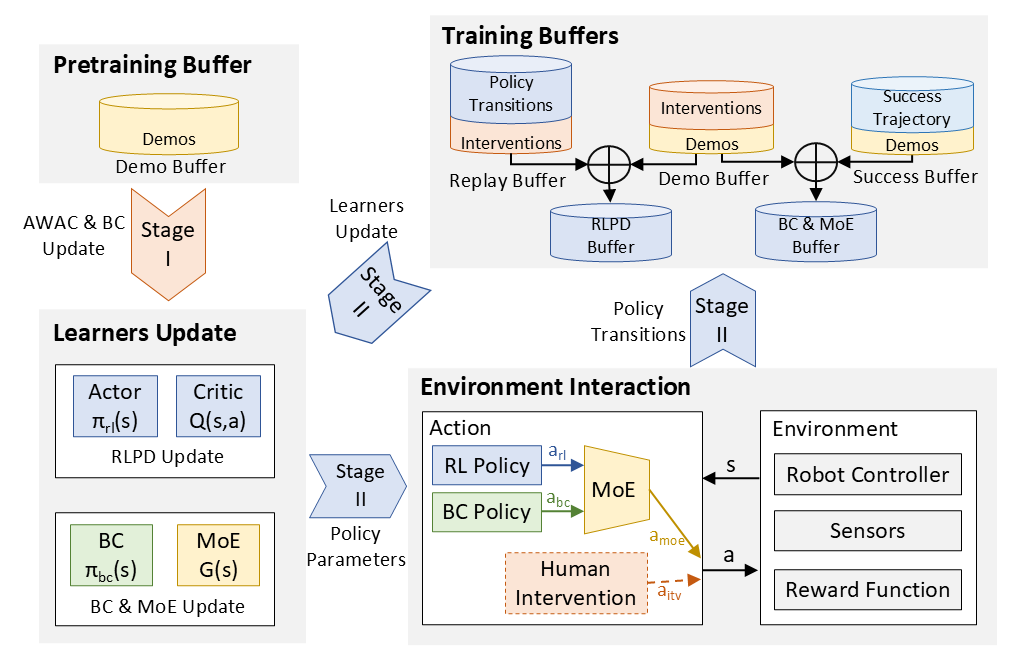
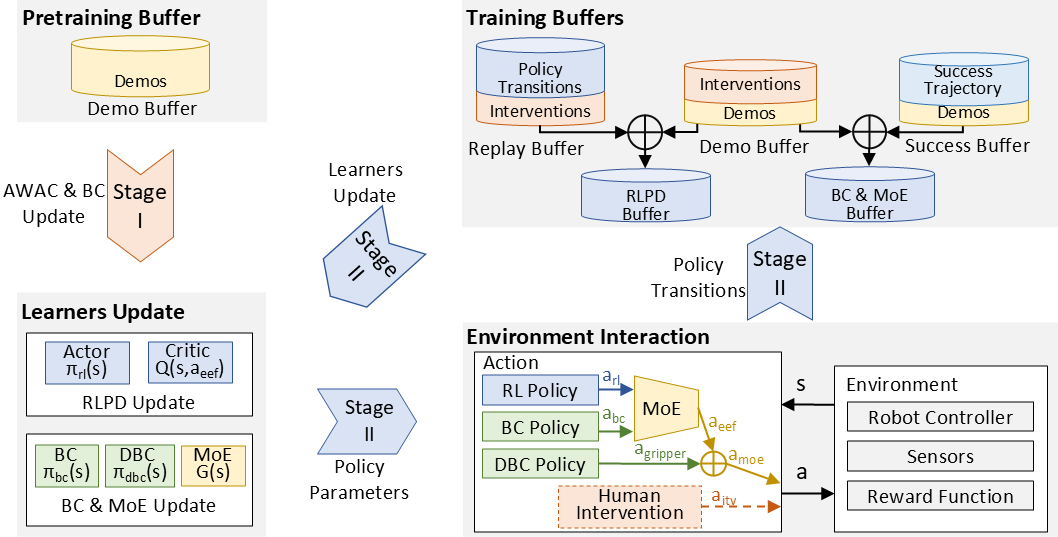
modify mori paper

diff --git a/_posts/2026-02-02-MoRI.md b/_posts/2026-02-02-MoRI.md
@@ -7,11 +7,11 @@ tags: [MoE, Reinforcement Learning, Imitation Learning, Manipulation, Embodied A
 ---
 
 ## Introduction
-In embodied robotic manipulation, imitation learning (IL) and reinforcement learning (RL) are mainstream policy acquisition paradigms with distinct strengths: IL enables sample-efficient policy learning from human demonstrations without manual programming, while RL supports autonomous exploration in dynamic environments to outperform original demonstrations. Nevertheless, IL and RL have inherent limitations and lack complementary integration: IL fails to generalize due to distribution mismatch, error accumulation, expert data reliance, and poor adaptability to contact-rich fine-grained tasks, while RL faces inefficient exploration and high trial-and-error costs, only partially mitigated by IL based pre-training. To address these challenges, we propose a bionic mix-of-experts (MoE) framework that dynamically assigns high-determinism coarse motions to IL and high-uncertainty contact-rich fine manipulations to RL. In the offline phase, our method independently trains the IL and RL modules to extract policies from limited demonstrations and stabilize value estimation; in the online phase, we continue their training and leverage the MoE algorithm for efficient policy selection, thus reducing manual intervention and accelerating task convergence. We evaluated our method on six complex manipulation tasks in simulation and real-world environments; within 2-4 hours of online fine-tuning, it achieved a 98\% average success rate, outperforming prior supervised and reinforcement learning methods, and reduced convergence time and manual intervention by 50\% each while doubling the proportion of successful training data. This work highlights the potential of integrating reinforcement learning and imitation learning via MoE to improve performance in robotic applications.
+In embodied robotic manipulation, imitation learning (IL) and reinforcement learning (RL) are mainstream policy acquisition paradigms with distinct advantages: IL enables sample-efficient policy learning from human demonstrations without manual programming, while RL supports autonomous exploration in dynamic environments to outperform original demonstrations. However, IL and RL have inherent limitations and lack complementary integration: IL fails to generalize due to distribution mismatch, error accumulation, over-reliance on expert data, and poor adaptability to contact-rich fine-grained tasks, while RL faces inefficient exploration and high trial-and-error costs, partially alleviated by IL-based pre-training. To address these challenges, we propose a bionic mix-of-experts (MoE) framework that dynamically allocates high-determinism coarse motions to IL and high-uncertainty contact-rich fine manipulations to RL. In the offline phase, we independently train IL and RL modules to extract policies from limited demonstrations and stabilize value estimation; in the online phase, we continue their training and use the MoE algorithm for efficient policy selection, reducing manual intervention and accelerating task convergence. We evaluated our method on four complex real-world manipulation tasks; within 2–4 hours of online fine-tuning, it achieved a 96\% average success rate, outperforming existing supervised and reinforcement learning methods, reduced convergence time and manual intervention by 50\%, and doubled the proportion of successful training data. This work highlights the potential of integrating RL and IL via MoE to enhance robotic application performance. 
 
 
 ## Experiment
-### Real
+### Real env video(youtube)
 <html>
 <body>
 <div style="text-align: center">
@@ -20,7 +20,7 @@ In embodied robotic manipulation, imitation learning (IL) and reinforcement lear
 </body>
 </html>
 
-### Sim
+### Sim env video(youtube)
 <html>
 <body>
 <div style="text-align: center">
